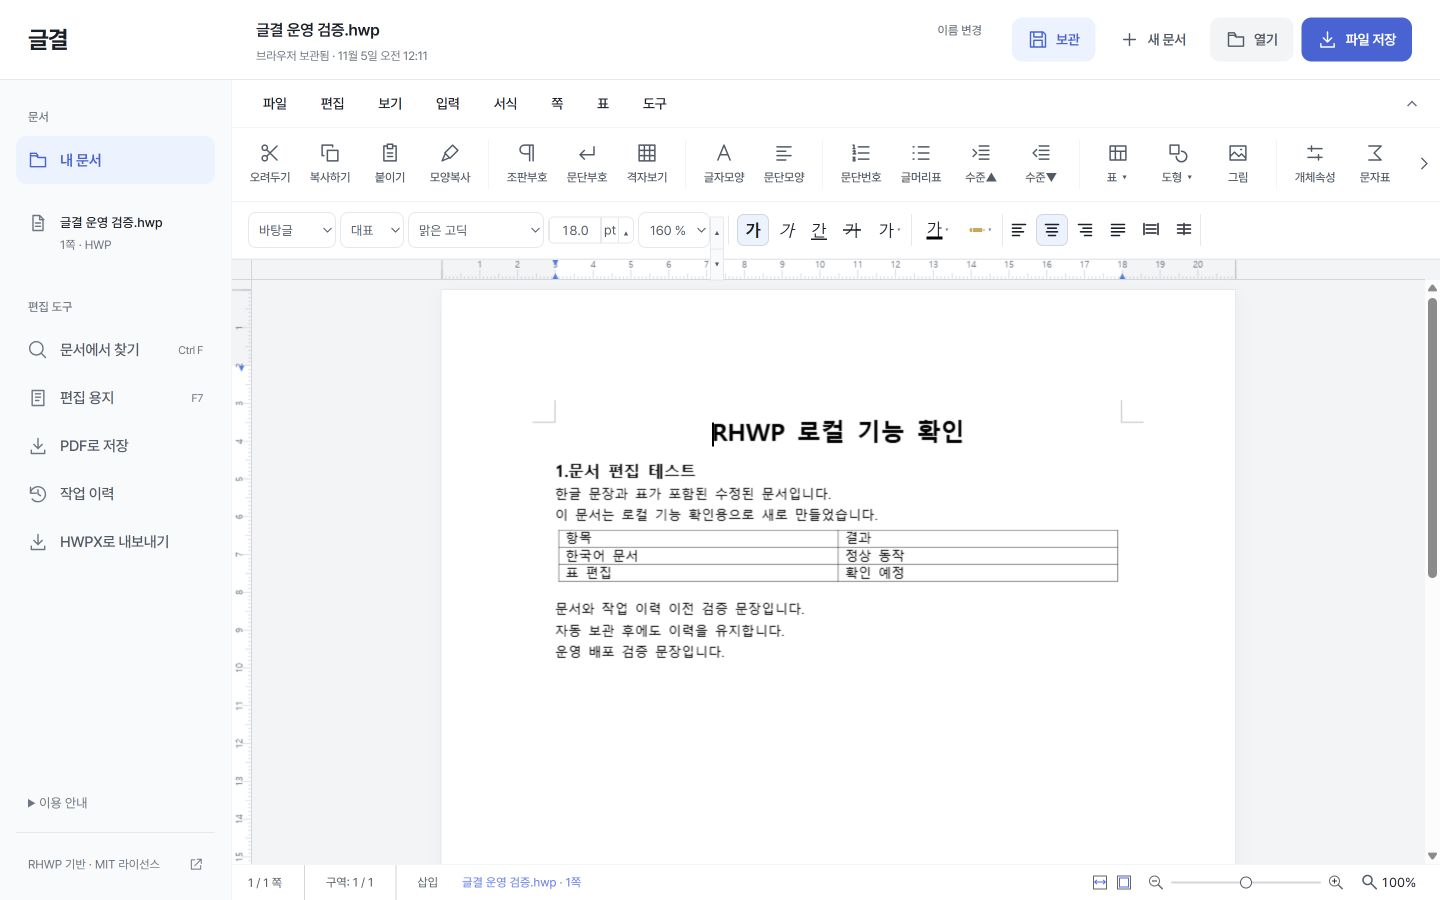
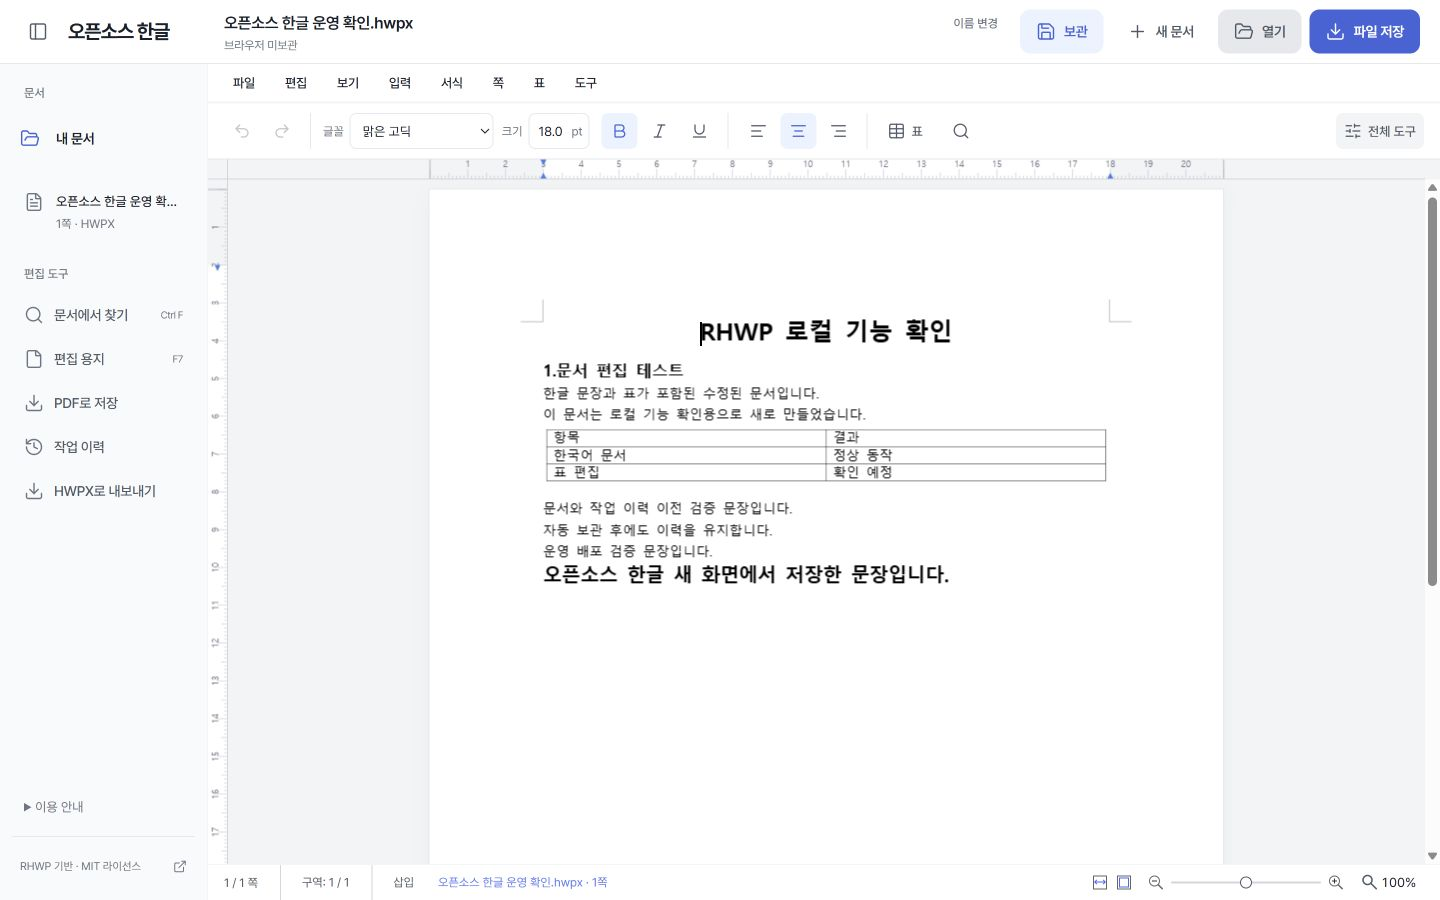
Document verified Open-source Hangul deployment and responsive screens

diff --git a/README.md b/README.md
@@ -2,11 +2,11 @@
 
 RHWP 오픈소스를 바탕으로 만든 독립 HWP/HWPX 문서 편집기입니다. 한컴의 공식 제품이나 제휴 서비스가 아닙니다. 이전 이름 ‘글결’의 문서와 백업을 그대로 읽습니다. 파일을 브라우저에서 열고 수정하여 내려받습니다.
 
-**운영 중 · `ready` (2026-11-05 검증).** [오픈소스 한글 열기](https://rhwp-workspace.coders.kr) — Coders.kr의 최신 배포 규약으로 게시했으며 실제 문서 편집·저장·백업 이전과 모바일/PC 화면을 확인했습니다. 로컬 실행도 계속 지원합니다.
+**v0.3 운영 중 · `ready` (2026-11-05 검증).** [오픈소스 한글 열기](https://rhwp-workspace.coders.kr) — Coders.kr의 최신 배포 규약으로 게시했으며 실제 문서 편집·저장·백업 이전과 모바일/PC 화면을 확인했습니다. 로컬 실행도 계속 지원합니다.
 
 ![운영 오픈소스 한글의 데스크톱 문서 편집 화면](screenshots/production-desktop.jpg)
 
-[내 문서 보관함](screenshots/library-desktop.jpg) · [이전 이력 비교](screenshots/history-migration.jpg) · [모바일 보관함](screenshots/library-mobile.jpg)
+[내 문서 보관함](screenshots/production-library-desktop.jpg) · [모바일 보관함](screenshots/production-library-mobile.jpg) · [모바일 서식 창](screenshots/production-mobile-format.jpg) · [v0.2 이전 이력 비교 기록](screenshots/history-migration.jpg)
 
 운영 검증 화면: [PC 보관함](screenshots/production-library-desktop.jpg) · [모바일 보관함](screenshots/production-library-mobile.jpg) · [360px](screenshots/production-mobile-360.jpg) · [390px](screenshots/production-mobile-390.jpg) · [태블릿](screenshots/production-tablet.jpg). 화면 속 문서는 직접 만든 기능 확인용 문서입니다.
 
@@ -131,7 +131,8 @@ npm start
 - `npm run build`: TypeScript 검사 및 Vite production build.
 - `npm test`: 문서/이력 백업 왕복, 변조 거부, 중복 방지, IndexedDB 실패 시 전체 취소와 v1 저장소 업그레이드 등 11개 통과.
 - 별도 로컬 출처 7720 → 7721에서 문서 2개·이력 1개 이전 후 실제 문서 열기/이력 비교 확인. 7721은 검증용이며 기본 실행 주소는 7720입니다.
-- 운영 주소에서도 빈 보관함 → 문서 2개·이력 1개 가져오기 → 편집·보관 → HWP/HWPX 다운로드·CLI 재검증까지 확인했습니다. 동일 백업의 중복 건너뛰기와 손상 백업 거부, 백업 내보내기 체크섬도 확인했습니다.
+- v0.3 운영에서도 기존 문서 3개·이력 1개 유지, 간편 도구로 문장·14pt/굵게 편집, HWP/HWPX 다운로드와 CLI 재파싱, HWPX 재열기/렌더링을 확인했습니다. 모바일 서식 창과 전체 도구 전환도 확인했습니다.
+- 첫 운영 배포에서는 빈 보관함 → 문서 2개·이력 1개 가져오기 → 편집·보관 → HWP/HWPX 다운로드·CLI 재검증까지 확인했습니다. 동일 백업의 중복 건너뛰기와 손상 백업 거부, 백업 내보내기 체크섬도 확인했습니다.
 - 플랫폼 Docker 빌드 성공과 `ready`, 운영 루트/상태 경로 200, 운영 JS·CSS의 로컬 빌드와 바이트 일치를 확인했습니다.
 - 브라우저에서 HWPX 열기 → 문장 추가 → 저장 후 CLI 재파싱에서 추가 문장과 표 보존 확인.
 - 360×800, 390×844, 768×1024, 1440×900에서 화면, 페이지 넘침과 주요 조작 확인.

diff --git a/VERIFICATION.md b/VERIFICATION.md
@@ -97,4 +97,17 @@
 - 새 브라우저 탭에서 파일 열기와 실제 캔버스 갱신을 재확인했다. 이전 차례에서 중단된 화면 갱신 확인은 이 재검증에서 수행했다. 360/390px에서 폭 맞춤 동작, 768/1440px에서 원본 도구 접근 확인. 밝은 테마 Chrome의 네 뷰포트 모두 페이지 가로 넘침 0px.
 - 기본 간편 모드 편집 높이: 1440×900에서 704.5px(이전 604), 360×800에서 591px(이전 345.5), 390×844에서 635px, 768×1024에서 828.5px. 문서 종이는 배율로 조절하고 파일 내부 크기는 유지한다.
 - 최종 변경의 `npm test` 11/11 PASS. TypeScript/Vite production build PASS. 검증 흐름 console error/warn 0건. 기존 큰 엔진 청크 경고는 유지된다.
-- 실제 휴대전화 키보드/IME, 모든 테마와 기존 RHWP 기능, 한컴 전체 서식 호환성은 계속 미검증이다. v0.3 운영 검증은 새 배포가 ready인 뒤 별도 기록한다.
+- 실제 휴대전화 키보드/IME, 모든 테마와 기존 RHWP 기능, 한컴 전체 서식 호환성은 계속 미검증이다. v0.3 운영 검증은 아래 기록에 구분한다.
+
+
+### v0.3 운영 재배포 검증 — 2026-11-05
+
+- UI 소스 커밋 `329ea0e36e13e1ce545441de6fd18403e23a8d32`, 배포 ID `e7164836-57c1-4392-b4b1-a9dbb7ef6a82`. 플랫폼 빌드 `SUCCESS`, terminal `ready` 확인. canonical과 실제 조직 fork의 main 전체 SHA 일치 확인 후 기존 프로젝트에 배포했다. 이후 검증 문서/스크린샷만 갱신하며 같은 프로젝트에 최종 소스를 반영한다.
+- 운영 이름/브라우저 제목/접근성 제목 ‘오픈소스 한글’ 확인. `/` 200, `/healthz` 200 text/plain. commit_sha는 null이어서 아래 운영 파일을 실제 내려받아 로컬 production build와 SHA-256 일치를 확인했다.
[2 lines of base64/hex data omitted]
+- 기존 보관 문서 3개·이력 1개 유지. 보관 문서 열기 → 새 문장 입력 → 간편 Undo/Redo → 선택 문장 14pt·굵게 → 이름 변경·보관 → HWP/HWPX 다운로드. 두 파일 각각 CLI에서 새 문장과 표 1개, 2조건 PASS. 저장한 HWPX를 운영에서 다시 열어 종이와 본문/표 렌더링 확인.
+- 백업·이전에서 손상된 이력 체크섬 거부, 기존 문서 3개·이력 1개 유지. 새 이름의 백업 다운로드(문서 3·이력 1), 같은 백업 가져오기에서 추가 0개/동일 항목 4개 건너뜀 확인.
+- 1440×900, 768×1024, 390×844, 360×800의 운영 화면을 저장하고 직접 확인했다. 각각 page scrollWidth=viewport width. 모바일 보관/열기/파일 저장 44px, 간편 모드 편집 높이 704.5/828.5/635/591px 확인.
+- 모바일 서식 창 Shift+Tab 순환과 Escape 후 서식 버튼 복귀, 보관함 Shift+Tab 순환과 Escape/패널 닫기, 전체 도구 Enter 전환과 Escape 접기 확인. WorkspacePretendard가 운영에서 적용됨을 확인했다.
+- 해당 운영 흐름 console error/warn 0건. 플랫폼에 주입되는 Coders 도구막대는 애플리케이션 기능으로 표시하지 않는다. 전체 테마/실제 모바일 IME/복잡한 한컴 문서 호환성의 미검증 범위는 그대로다. 공개 캡처는 직접 만든 시험 문서만 사용했다.

diff --git a/UX_REVIEW.md b/UX_REVIEW.md
@@ -18,4 +18,7 @@
 
 임시 이름은 **오픈소스 한글**이다. 기존 ‘글결’의 브라우저 저장소와 백업 식별자는 유지한다. 한컴 공식 제품/제휴 서비스가 아닌 RHWP 기반 독립 프로젝트다.
 
-비교 화면: [변경 전 PC](screenshots/v3-before-desktop.jpg), [변경 전 모바일](screenshots/v3-before-mobile.jpg). 수정 후 운영 화면은 배포 검증 뒤 README의 최신 스크린샷으로 확인한다. 실제 기기 키보드·스크린리더 전체 흐름과 복잡한 한컴 문서 호환성은 이 점검의 범위 밖이다.
+비교 화면: [변경 전 PC](screenshots/v3-before-desktop.jpg), [변경 전 모바일](screenshots/v3-before-mobile.jpg). 수정 후 운영 화면은 README의 최신 스크린샷으로 확인한다. 실제 기기 키보드·스크린리더 전체 흐름과 복잡한 한컴 문서 호환성은 이 점검의 범위 밖이다.
+
+
+운영 검증은 새 배포 ready 후 수행했다. [PC 편집](screenshots/production-desktop.jpg) · [360px 편집](screenshots/production-mobile-360.jpg) · [모바일 서식 창](screenshots/production-mobile-format.jpg) · [PC 보관함](screenshots/production-library-desktop.jpg) · [모바일 보관함](screenshots/production-library-mobile.jpg). 새 이름과 기존 문서 입출력·보관·백업 동작을 함께 확인했다. 상세 명령/결과/미검증 범위는 [VERIFICATION.md](VERIFICATION.md)에 남겼다.
